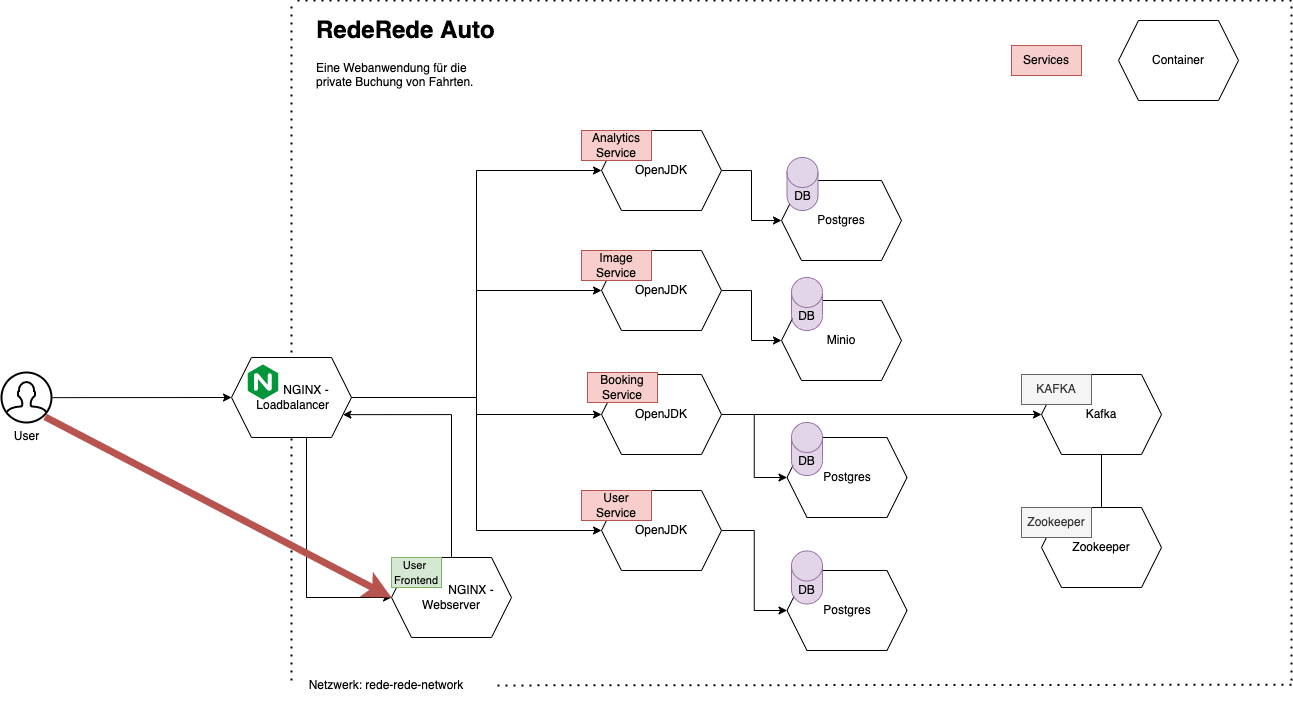
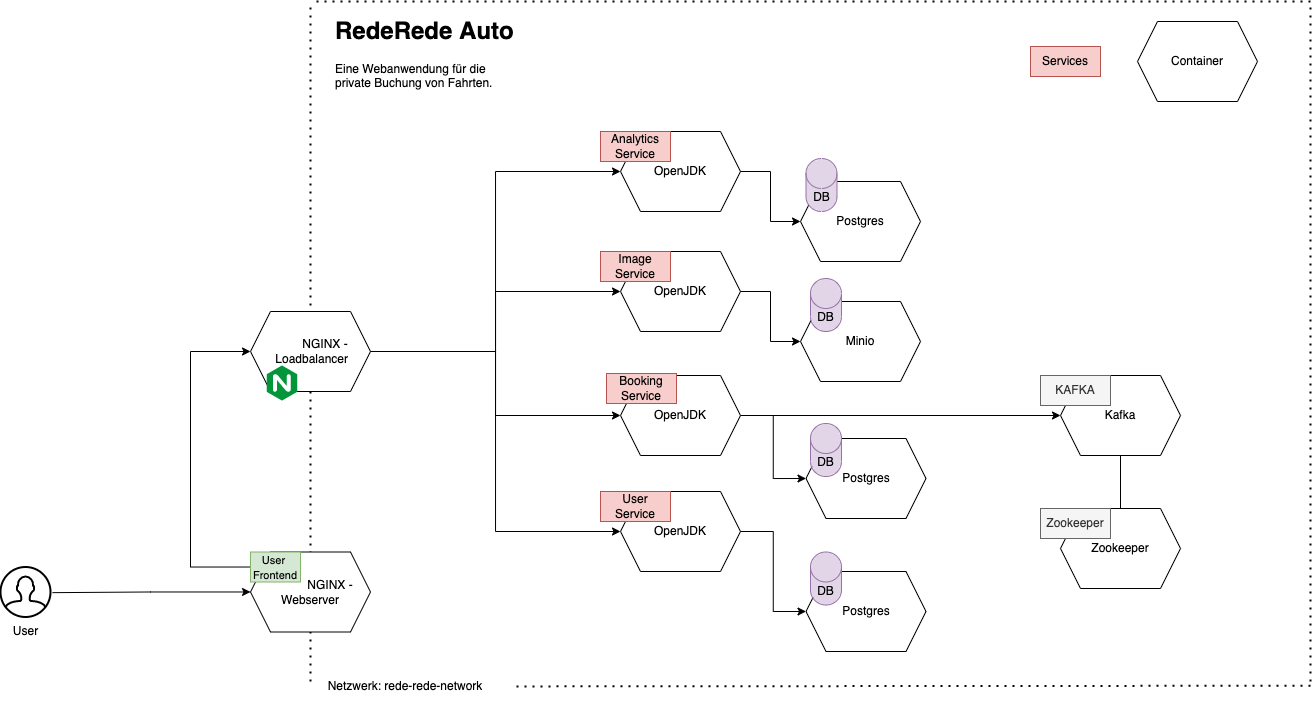
Add Service Architecture and ReadMe

diff --git a/Documentation/Architektur_Overview.md b/Documentation/Architektur_Overview.md
@@ -1,13 +1,33 @@
 # Architekturen von RedeRede Auto
 
-## Architektur aus fachlicher Perspektive
-![Architecture](Architecture.png)
+Unsere Web-Applikation "RedeRede Auto" basiert auf einer Architektur, die verschiedene Perspektiven berücksichtigt, angefangen von einer fachlichen Betrachtung bis hin zu technischen Aspekten und Implementierungsdetails.
 
-## Architektur zur Beschreibung der Technologien
-![Architecture Techstack](./Architecture_TechStack.png)
+### Architektur aus fachlicher Perspektive
+Diese Perspektive zeigt die Architektur aus einer geschäftlichen Sicht und stellt alle implementierten Anwendungsfälle dar.
 
-## Architektur für Docker-Compose Setup
-![Architecture Docker](./Architecture_Docker.png)
+![Fachliche Architektur](Architecture.png)
 
-## Architektur für Kubernetes Setup
-![Architecture Kubernetes](./Architecture_Kubernetes.png)
+### Architektur zur Beschreibung der Technologien
+Diese Perspektive gibt einen Überblick über die Technologien, die in jedem Service unserer Plattform verwendet werden.
+
+![Technologie-Stack Architektur](./Architecture_TechStack.png)
+
+
+### Architektur für Docker-Compose Setup
+Hier präsentieren wir eine Architektur für das Docker-Compose-Setup und erklären die Zusammenhänge zwischen den einzelnen Komponenten.
+
+![Docker-Compose Architektur](./Architecture_Docker.png)
+
+Die Docker-Compose-Architektur veranschaulicht, wie unsere Anwendung in Container verpackt ist und wie diese Container miteinander kommunizieren. Dieses Setup ermöglicht eine einfache Bereitstellung und Skalierung unserer Plattform.
+
+### Architektur für Kubernetes Setup
+In dieser Perspektive zeigen wir die Architektur unseres Kubernetes-Setups und erläutern die Beziehungen zwischen den verschiedenen Komponenten.
+
+![Kubernetes Architektur](./Architecture_Kubernetes.png)
+
+Die Kubernetes-Architektur verdeutlicht, wie unsere Anwendung in einem Kubernetes-Cluster bereitgestellt und orchestriert wird.
+
+### Innere Architektur des Userservice
+Die Architektur beschreibt den inneren Aufbau des Userservices, der nach dem Architekturstil "Hexagonale Architektur" entwicklet wurde.
+![Userservice Architektur](/user-service/documentation/architecture.png)
+

diff --git a/README.md b/README.md
@@ -1,1 +1,24 @@
-# CloudNativeDevelopment2023
+# Willkommen bei RedeRede Auto!
+
+Herzlich willkommen im offiziellen GitHub-Repository von RedeRede Auto! 🚗
+
+## Über RedeRede Auto
+RedeRede Auto ist eine innovative Web-Applikation, die sich dem Teilen von Fahrten verschrieben hat. Unser Ziel ist es, Menschen zu verbinden und umweltfreundliche Mobilität zu fördern. Mit unserer Plattform können Sie Mitfahrgelegenheiten finden, ihre Fahrten teilen und die Community der umweltbewussten Reisenden unterstützen.
+
+## Mitmachen und Beitrag leisten
+Wir freuen uns über jede Form der Unterstützung! Wenn Sie Interesse daran haben, zu unserem Projekt beizutragen, öffne gerne Issues, senden Pull Requests oder nehmen Kontakt mit unserem Team auf. Gemeinsam gestalten wir die Zukunft der nachhaltigen Mobilität.
+
+Vielen Dank, dass Sie Teil der RedeRede Auto-Community sind!
+
+Happy Sharing! 🌍🚗
+
+<br>
+
+##### Weiterführende Links
+[Link zu Architekturen](/Documentation/Architektur_Overview.md)
+
+[Link zu Installationsanleitung](/Documentation/Architektur_Overview.md)
+
+Letzter Link muss noch aktualisiert werden
+
+(Disclaimer: Die Marketing Text in diesem File wurden in Zusammenarbeit mit ChatGPT generiert)
